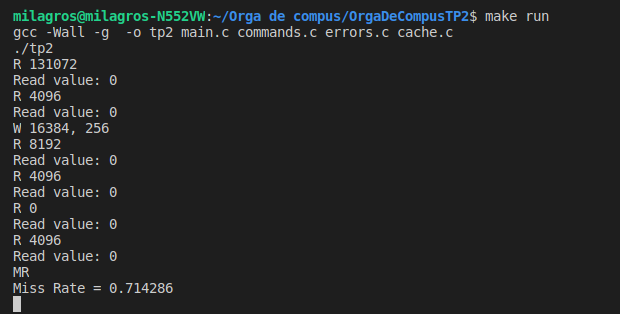
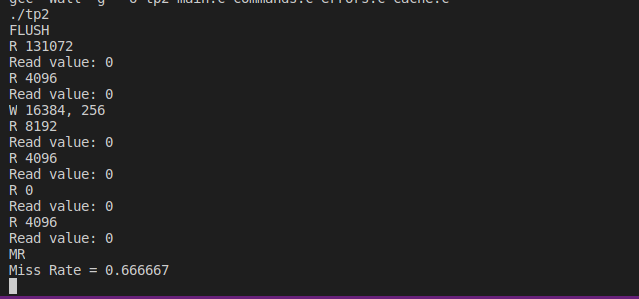
tp terminado

Changed region(s): [[0.0, 0.0, 1.0, 1.0]]

diff --git a/cache.c b/cache.c
@@ -248,14 +248,14 @@ unsigned char read_byte(unsigned int address)
         metadata = CACHE.cache_metadata[way][set];
         if (!(metadata & MASK_VALID)) {
             read_tocache(address/BLOCK_SIZE, way, set);
-            CACHE.cache_metadata[way][set] |= (tag >> 9);
+            CACHE.cache_metadata[way][set] |= (tag << 9);
             return CACHE.cache_memory[way][set][offset];
         }
     }
     //If there isn't an empty block, replaces one
     unsigned int oldest_one = select_oldest(set);
     read_tocache(address/BLOCK_SIZE, oldest_one, set);
-    CACHE.cache_metadata[oldest_one][set] |= (tag >> 9);
+    CACHE.cache_metadata[oldest_one][set] |= (tag << 9);
     return CACHE.cache_memory[oldest_one][set][offset];
 }
 
